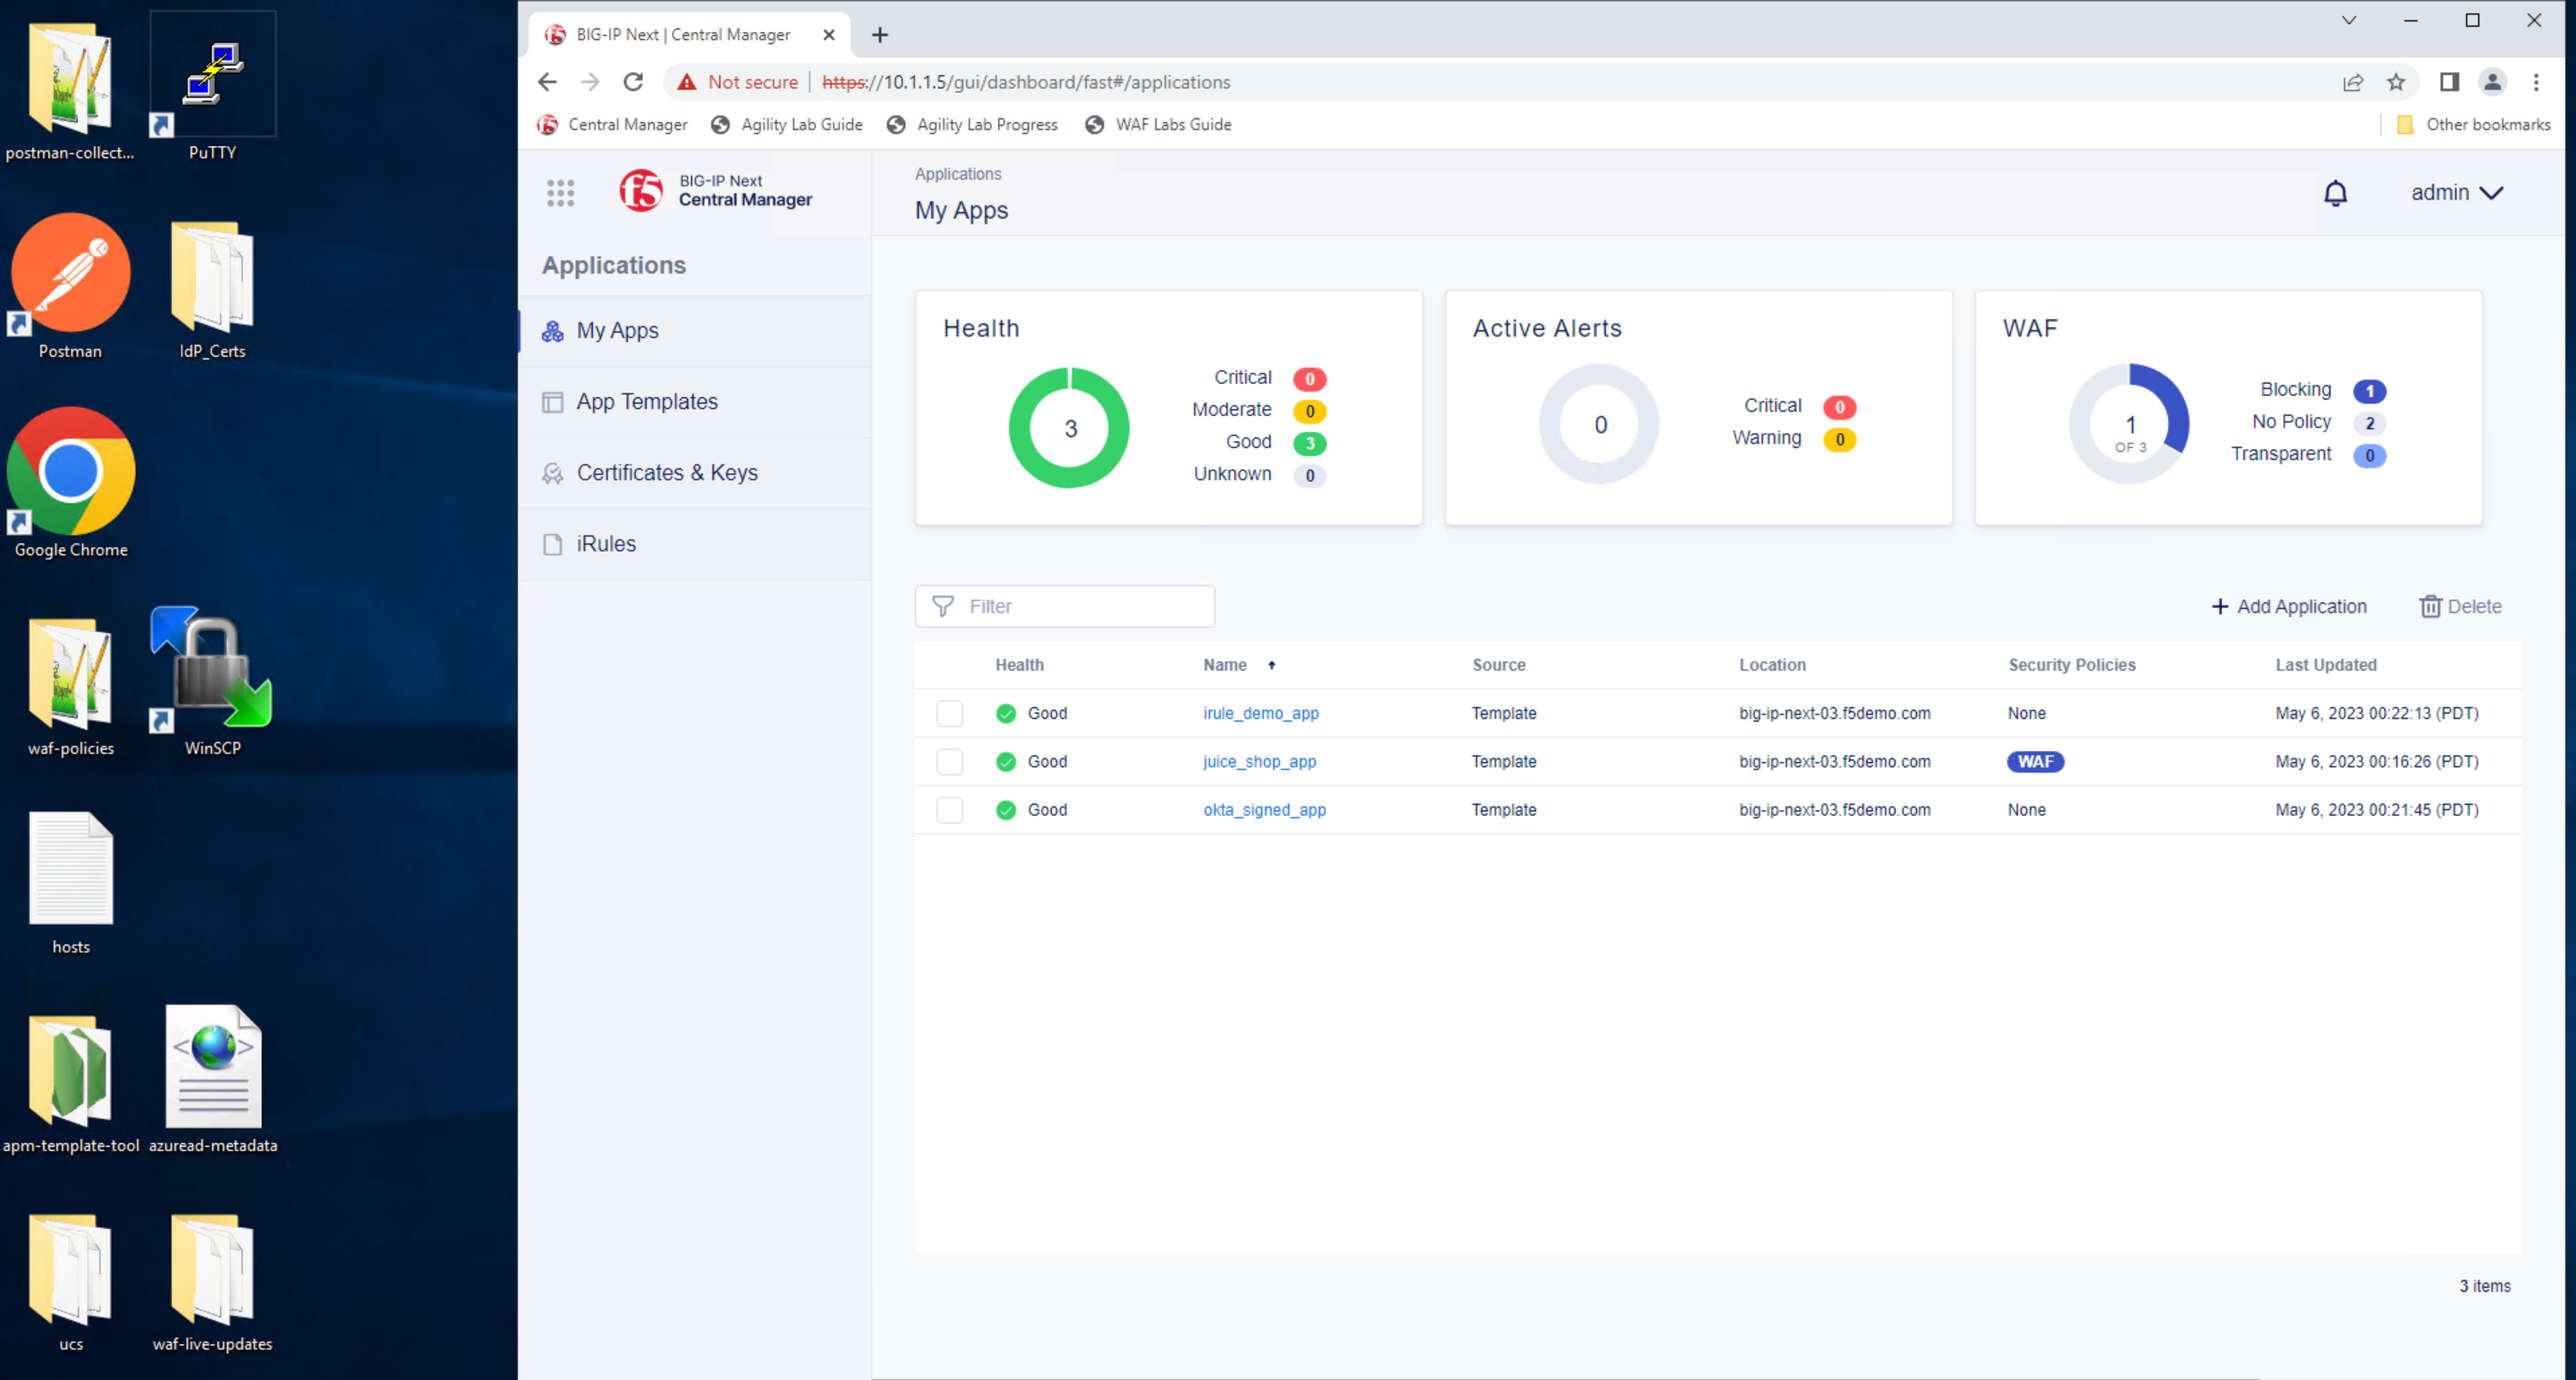
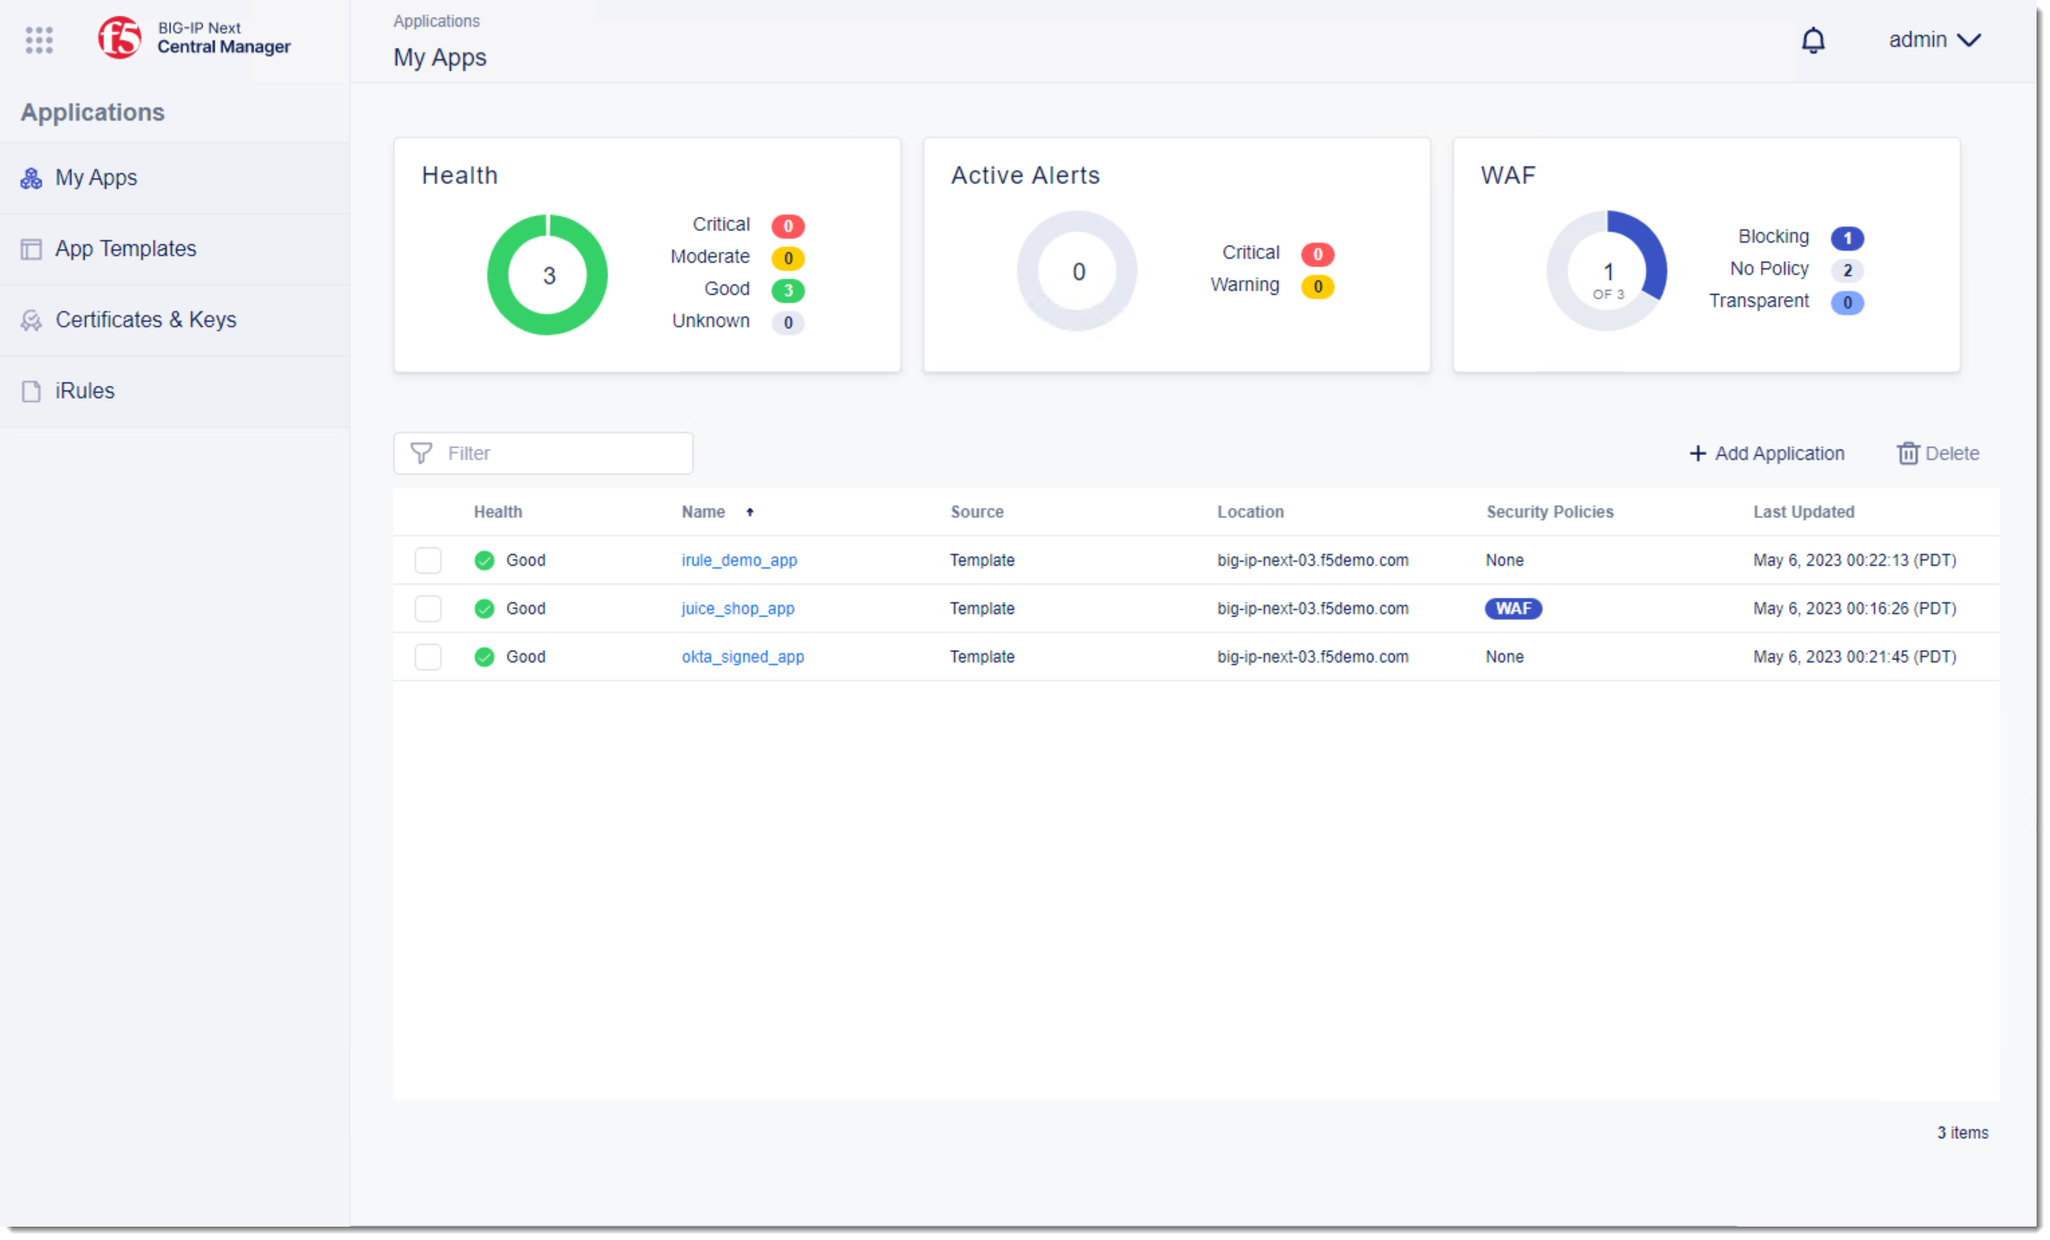
remove rdp

diff --git a/docs/class1/module1/lab4.rst b/docs/class1/module1/lab4.rst
@@ -1,37 +1,44 @@
-Lab 1.4 - Accessing Central Manager
-===================================
+Lab 1.5 - Lab Progress
+======================
 
-During this lab we will primarily be using BIG-IP Next Central Manager 
+During this lab you can track your progress and your peers via the "Lab Progress"
+application.
 
-.. warning:: It can take 10-15 minutes for Central Manager to completely start after you start the lab.  If you see a connection error, please try waiting.
+#. Open the "Lab Progress Application"
 
-#. Launch Google Chrome
-    
-    .. image:: chrome-icon.png
-      :scale: 50%
-    
-    From the Windows RDP Desktop Find the Google Chrome icon and double click on it
-    
-#. Once Chrome is open click on the "Central Manager" bookmark
-    
-    
-    .. image:: central-manager-bookmark.png
-      :scale: 50%
-    
-#. Certificate errors
-    
-    You will see certificate errors 
 
-    You can click on "advanced" followed by "proceed"
+    It is accessible under the "Ubuntu Jump Host" device Access methods
 
-    .. image:: central-manager-cert-errors.png
-        :scale: 50%
-#. Login to Central Manager
-    
-    You can login using the username "admin" and password "Welcome123!"
-
-    .. image:: central-manager-login-screen.png
+    .. image:: access-method-lab-progress.png
         :scale: 50%
 
-    .. image:: central-manager-desktop.png
-        :scale: 50%
+    You will see your progress highlighted in gray.  
+
+    .. image:: lab-progress-list.png
+        :scale: 75%
+
+#. Change your userid to your name
+
+
+    You optionally change the unique userid to your name by clicking on "Profile"
+
+    .. image:: lab-progress-profile.png
+        :scale: 40%
+
+#. View your detailed progress
+
+
+    To see your detailed progress click on "Status" or "View" from the Home page next to your userid
+
+    .. image:: lab-progress-details.png
+        :scale: 40%
+
+    Your progress is updated every 10 minutes.  If you would like to refresh your status faster you can click on "Check Status"
+
+#. Completing the lab
+
+    Once you complete the lab you will have my respect and admiration.
+
+    .. image:: lab-progress-completed.png
+        :scale: 75%
+

diff --git a/docs/class1/module1/lab3.rst b/docs/class1/module1/lab3.rst
@@ -1,32 +1,27 @@
-Lab 1.3 - Access Windows RDP Host
-=================================
+Lab 1.3 - Accessing Central Manager
+===================================
 
-You can interact with the lab environment via a Windows RDP client.
+During this lab we will primarily be using BIG-IP Next Central Manager 
 
-If you are unable to use RDP on your device please contact a lab assistant for alternate access methods
+.. warning:: It can take 10-15 minutes for Central Manager to completely start after you start the lab.  If you see a connection error, please try waiting.
 
-1. Locate the Windows RDP Host
-  From the course page click on the "Deployments" tab at the top left of the page.
-  
-  .. image:: main-course-page.png
-    :scale: 25%
-  
-  Find the "Windows" host and click on the 
-  
-  .. image:: select-rdp-1080p.png
-    :scale: 25%
+
+Accessing Central Manager from Access Method
+~~~~~~~~~~~~~~~~~~~~~~~~~~~~~~~~~~~~~~~~~~~~
+
+We recommend that you use Google Chrome when using this lab environment.
+
+#. Find the "BIG-IP Next Central Manager" under your "Deployments" and click on "Access" followed by "GUI"
     
-2. Launch the RDP client  
-  Launch the .rdp file.  You will need to login with username and password of "user" and "user".
-  
-  You may need to click on "more choices" to select "Use a different username"
-  
-  .. image:: rdp-more-choices.png
-    :scale: 25%
-  
-  .. note:: You will see warning messages about certificates that you can click past.  We use a self-signed certificate for RDP in this lab
-  
-  You may also need to re-size the window to better match the resolution of your display.
-  
-  .. image:: rdp-re-size.png
-    :scale: 25%
+    .. image:: central-manager-access-method.png
+      :scale: 50%
+    
+#. Login to Central Manager
+    
+    You can login using the username "admin" and password "Welcome123!"
+
+    .. image:: central-manager-login-screen.png
+        :scale: 50%
+
+    .. image:: central-manager-desktop.png
+        :scale: 50%

diff --git a/docs/class1/module5/lab1.rst b/docs/class1/module5/lab1.rst
@@ -5,9 +5,6 @@ Lab 5.1 - Modify templates to add security policy
 * Show versioning of the template
 * Deploy app again using the new template
 
-.. warning:: We have had reports from students that the UI may revert settings if you try and edit the application after deploying.  Please take care to ensure that you have the correct inputs.  We are investigating the reports of issues to determine the root cause, but you should be able to complete this lab.  If you encounter any issues, please let us know.
-
-
 Deploy an application with a WAF policy using FAST template
 ###########################################################
 This part of the lab covers how to create and deploy an application and protect it with a WAF policy using the FAST template and the WAF violation rating based template with the focus on ease of use.
